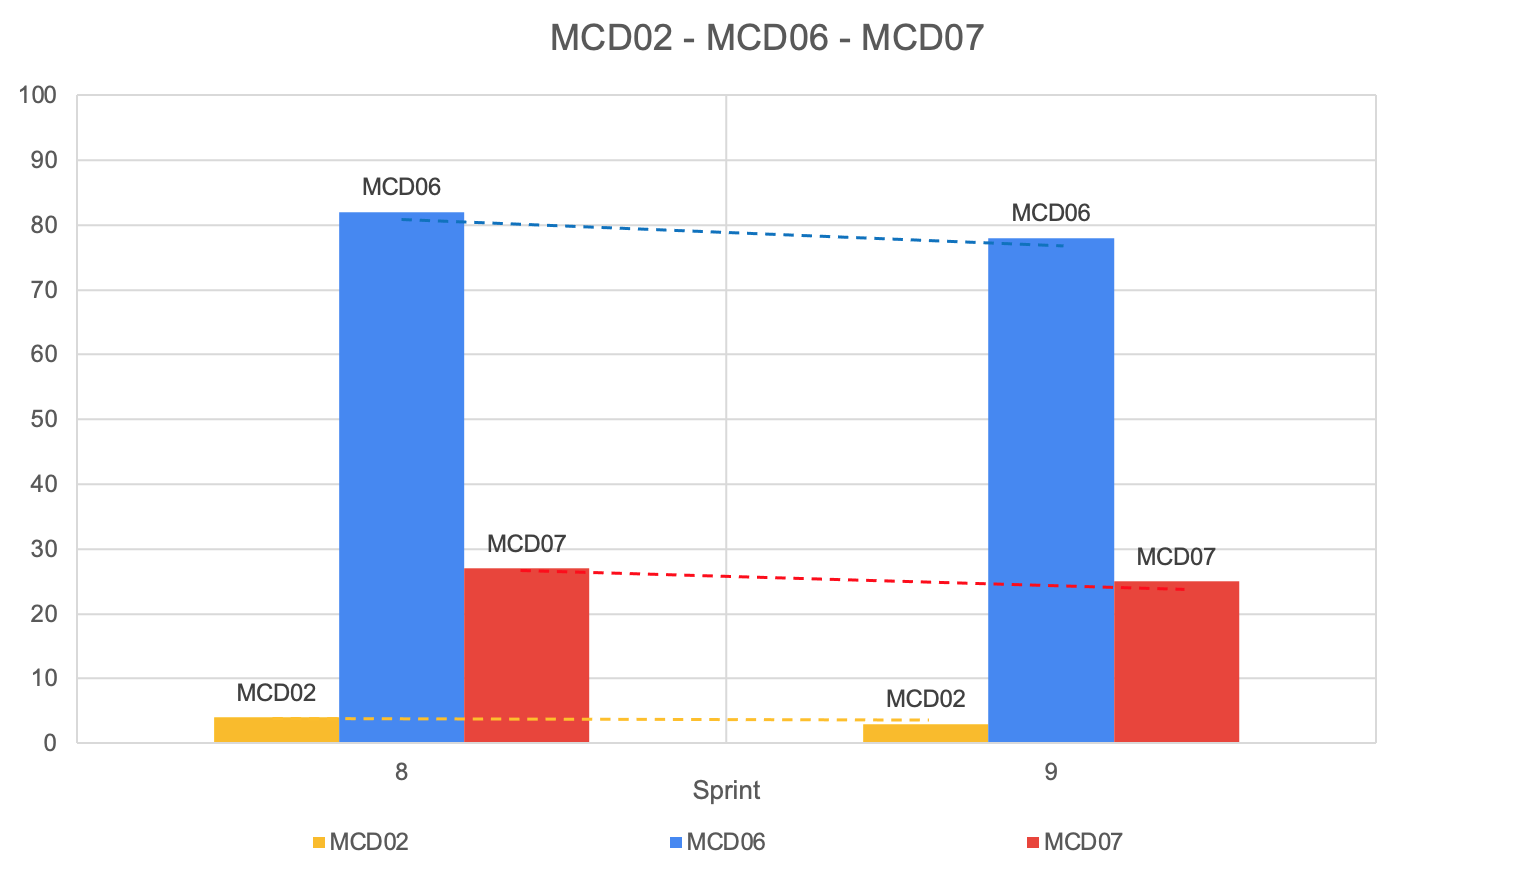
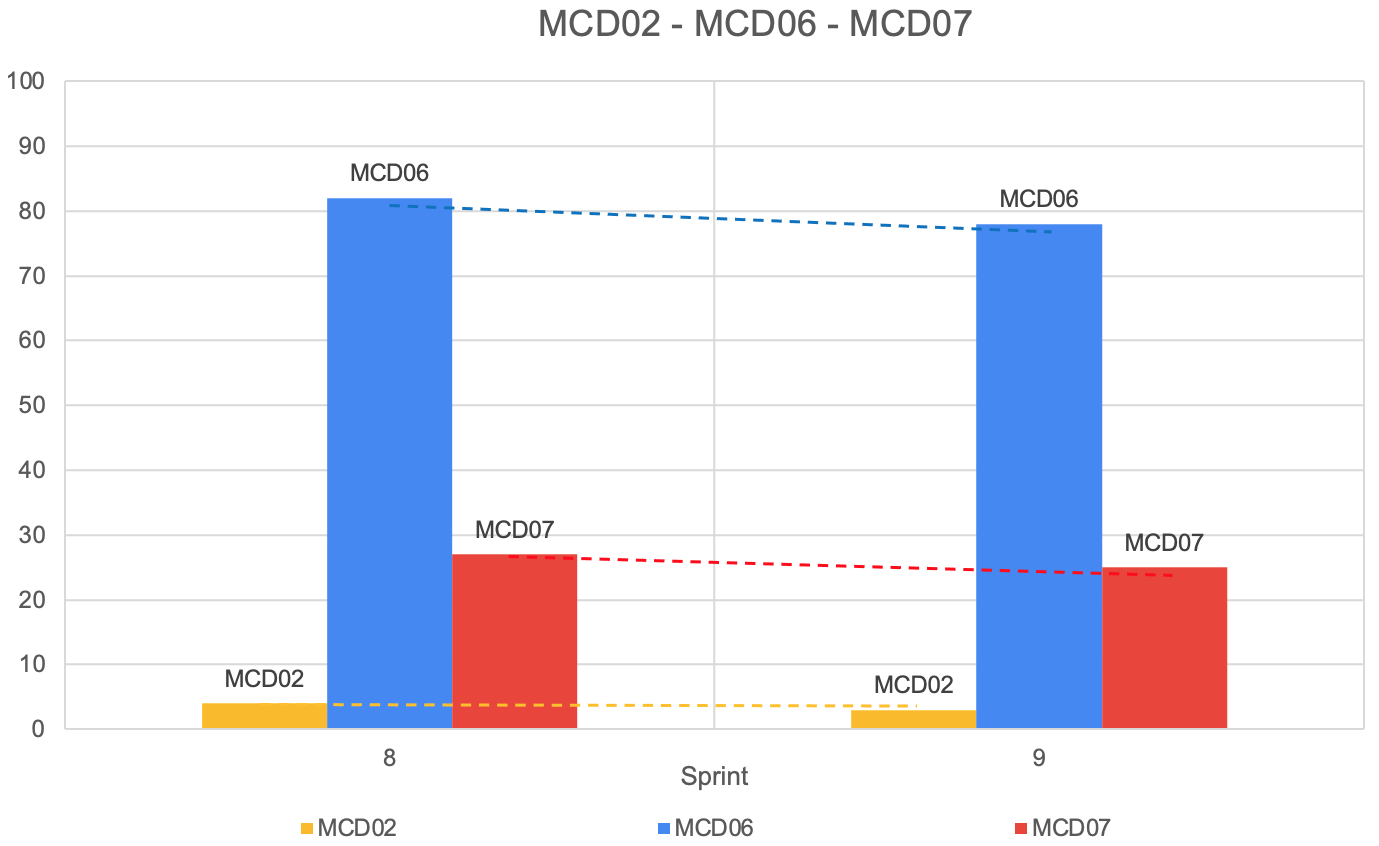
fix dimensioni e margini grafici

diff --git a/Esterni/PianoDiQualifica/components/A_resoconto_attivita_di_verifica.tex b/Esterni/PianoDiQualifica/components/A_resoconto_attivita_di_verifica.tex
@@ -59,14 +59,14 @@ Di seguito riportiamo i cruscotti dei valori riscontrati delle metriche riguarda
 \subsubsection*{MCD01 - indice di Gulpease}
 \begin{figure}[H]
     \centering
-    \includegraphics[scale = 0.5]{immagini/GulpeaseRQ.png}
+    \includegraphics[scale = 0.6]{immagini/GulpeaseRQ.png}
     \caption{Cruscotto MDC01, RQ}
 \end{figure}
 
 \subsubsection*{MCD02 - indice di Flesch-Vacca}
 \begin{figure}[H]
     \centering
-    \includegraphics[scale = 0.5]{immagini/fleschRQ.png}
+    \includegraphics[scale = 0.6]{immagini/fleschRQ.png}
     \caption{Cruscotto MDC02, RQ}
 \end{figure}
 \newpage
@@ -76,21 +76,21 @@ Di seguito riportiamo i cruscotti dei valori riscontrati delle metriche riguarda
 \subsubsection*{MCD01 - percentuale degli errori corretti}
 \begin{figure}[H] 
     \centering
-    \includegraphics[scale = 0.6]{immagini/MCD01.png}
+    \includegraphics[scale = 0.5]{immagini/MCD01.png}
     \caption{Cruscotto MCD01, percentuale degli errori corretti, RQ}
 \end{figure}
 
 \subsubsection*{MDC02 - complessità ciclomatica, MCD06 - lunghezza della riga di codice, MCD07 - brevità dei metodi}
 \begin{figure}[H] 
     \centering
-    \includegraphics[scale = 0.65]{immagini/MCD02-06-07.png}
+    \includegraphics[scale = 0.55]{immagini/MCD02-06-07.png}
     \caption{Cruscotto MCD02, MCD06, MCD07, RQ}
 \end{figure}
 
 \subsubsection*{MCD03 - variabili non utilizzate, MCD04 - rapporto linee di codice e linee commentate}
 \begin{figure}[H] 
     \centering
-    \includegraphics[scale = 0.65]{immagini/MCD03-04.png}
+    \includegraphics[scale = 0.55]{immagini/MCD03-04.png}
     \caption{Cruscotto MCD03, MCD04, RQ}
 \end{figure}
 
@@ -101,4 +101,3 @@ Di seguito riportiamo i cruscotti dei valori riscontrati delle metriche riguarda
     \caption{Cruscotto MCD05, code coverage, RQ}
 \end{figure}
 
-s
